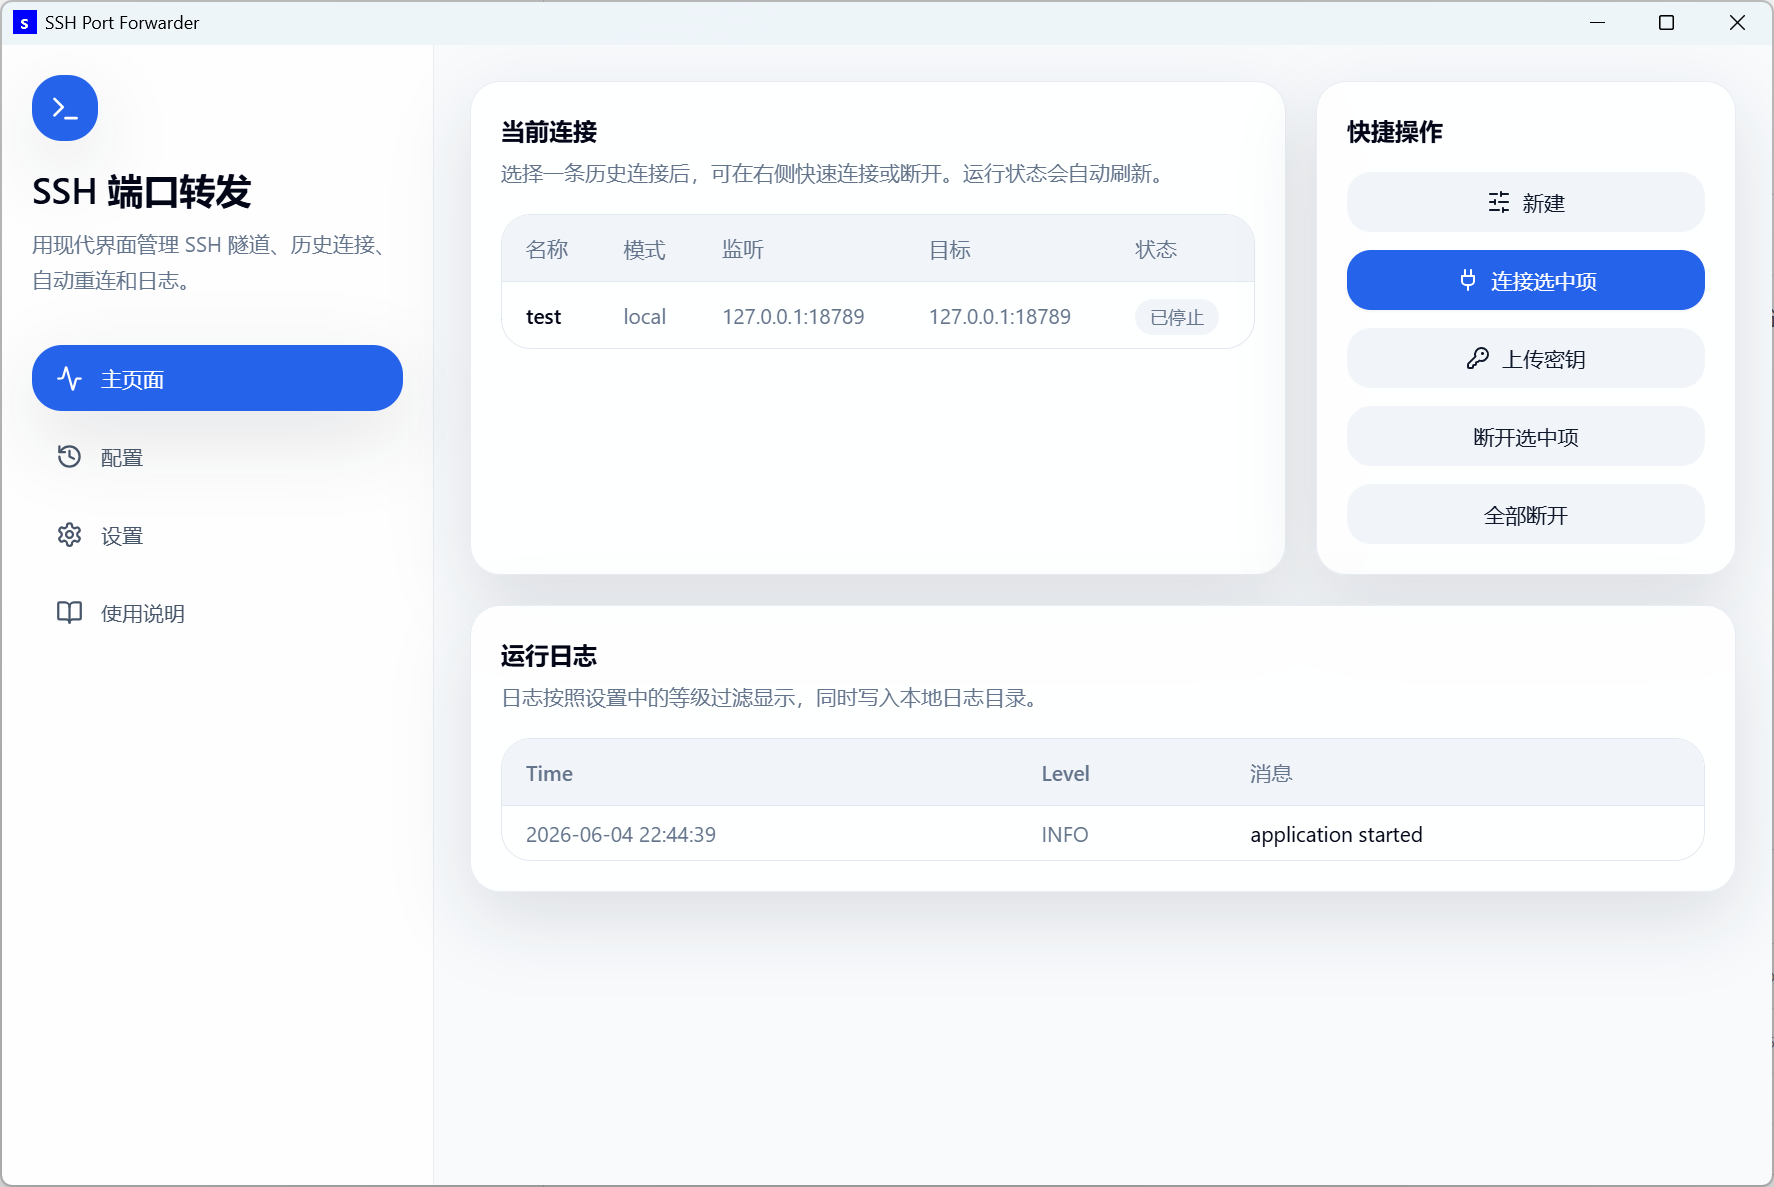
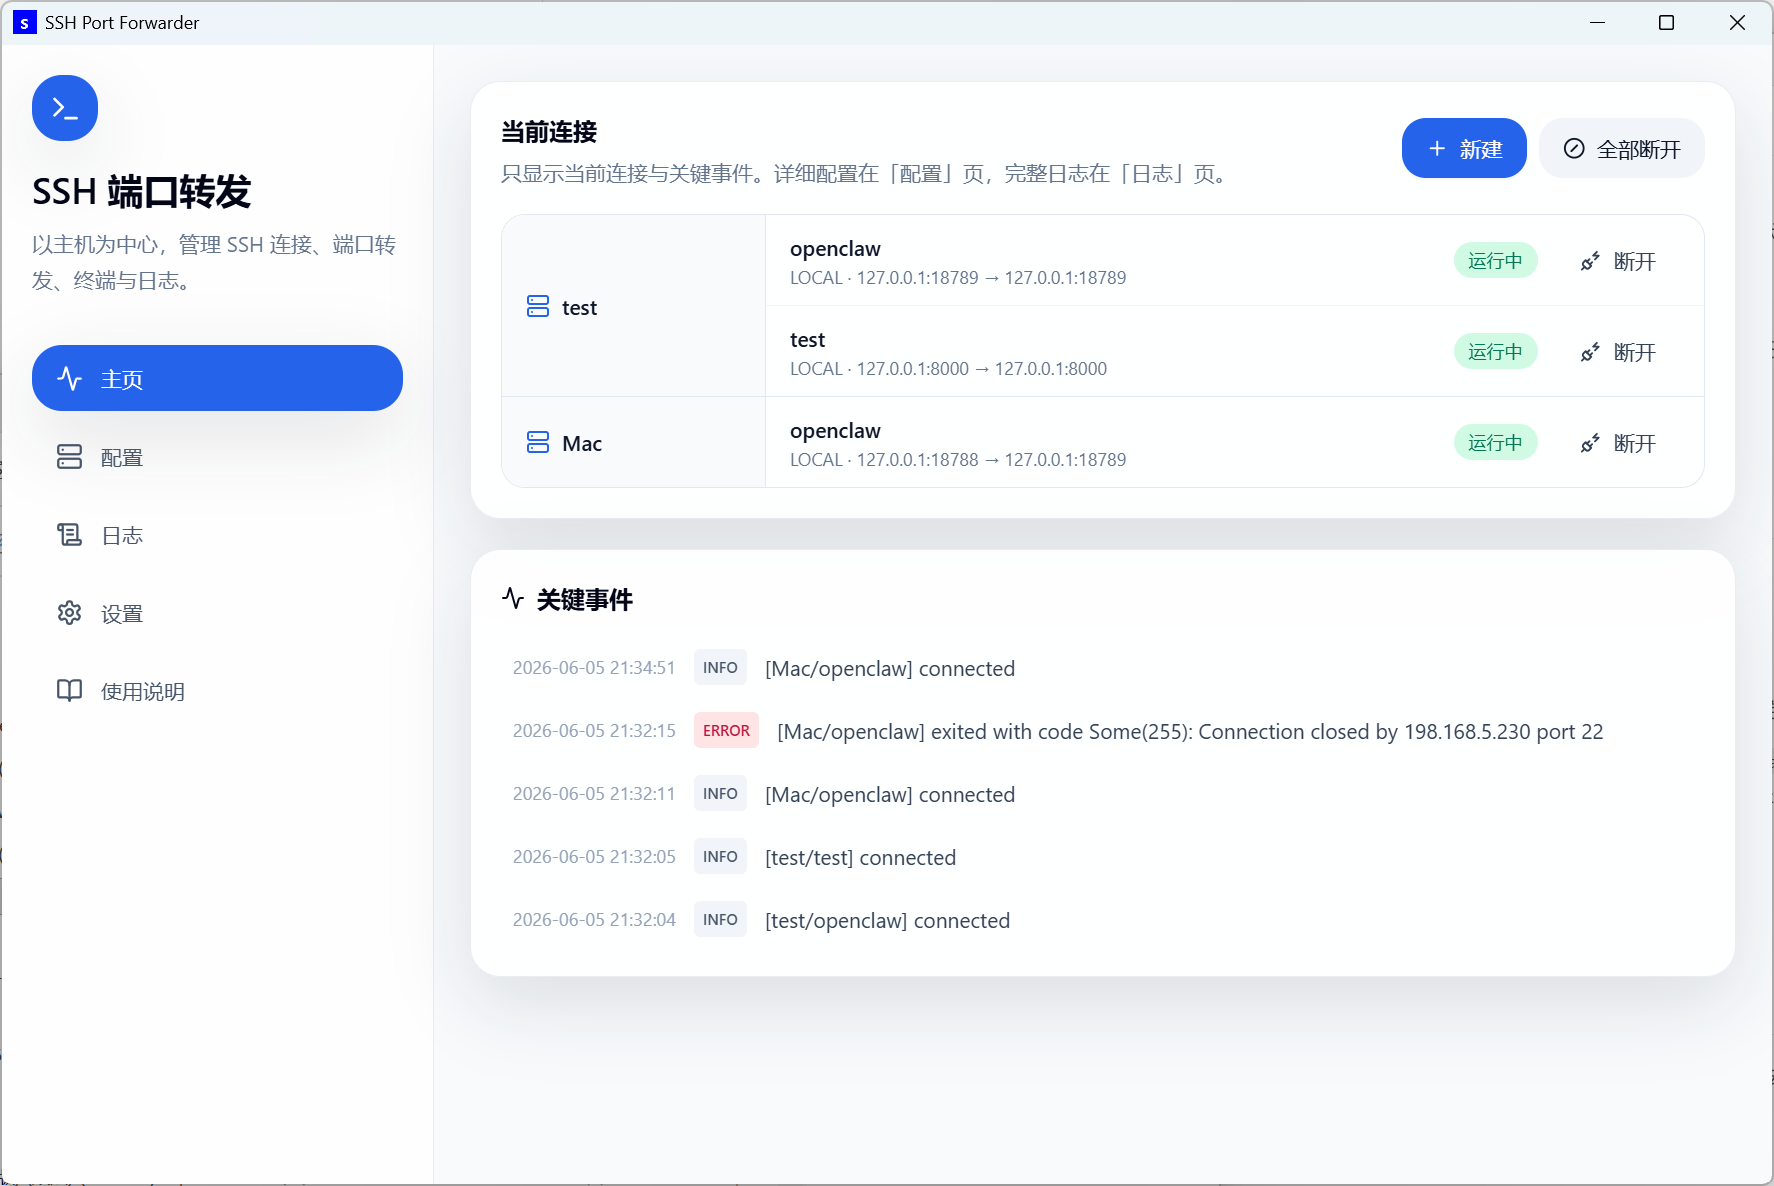
Update README screenshots

diff --git a/README.md b/README.md
@@ -4,9 +4,9 @@
 
 ## 界面预览
 
-![主页面运行截图](docs/screenshot-main.png)
+![主页面截图](docs/screenshot-main.png)
 
-> 截图为 v0.1.x 旧界面，v0.2.0 改为主机分组结构，后续会更新。
+![配置页面截图](docs/screenshot-config.png)
 
 ## 主要功能
 
